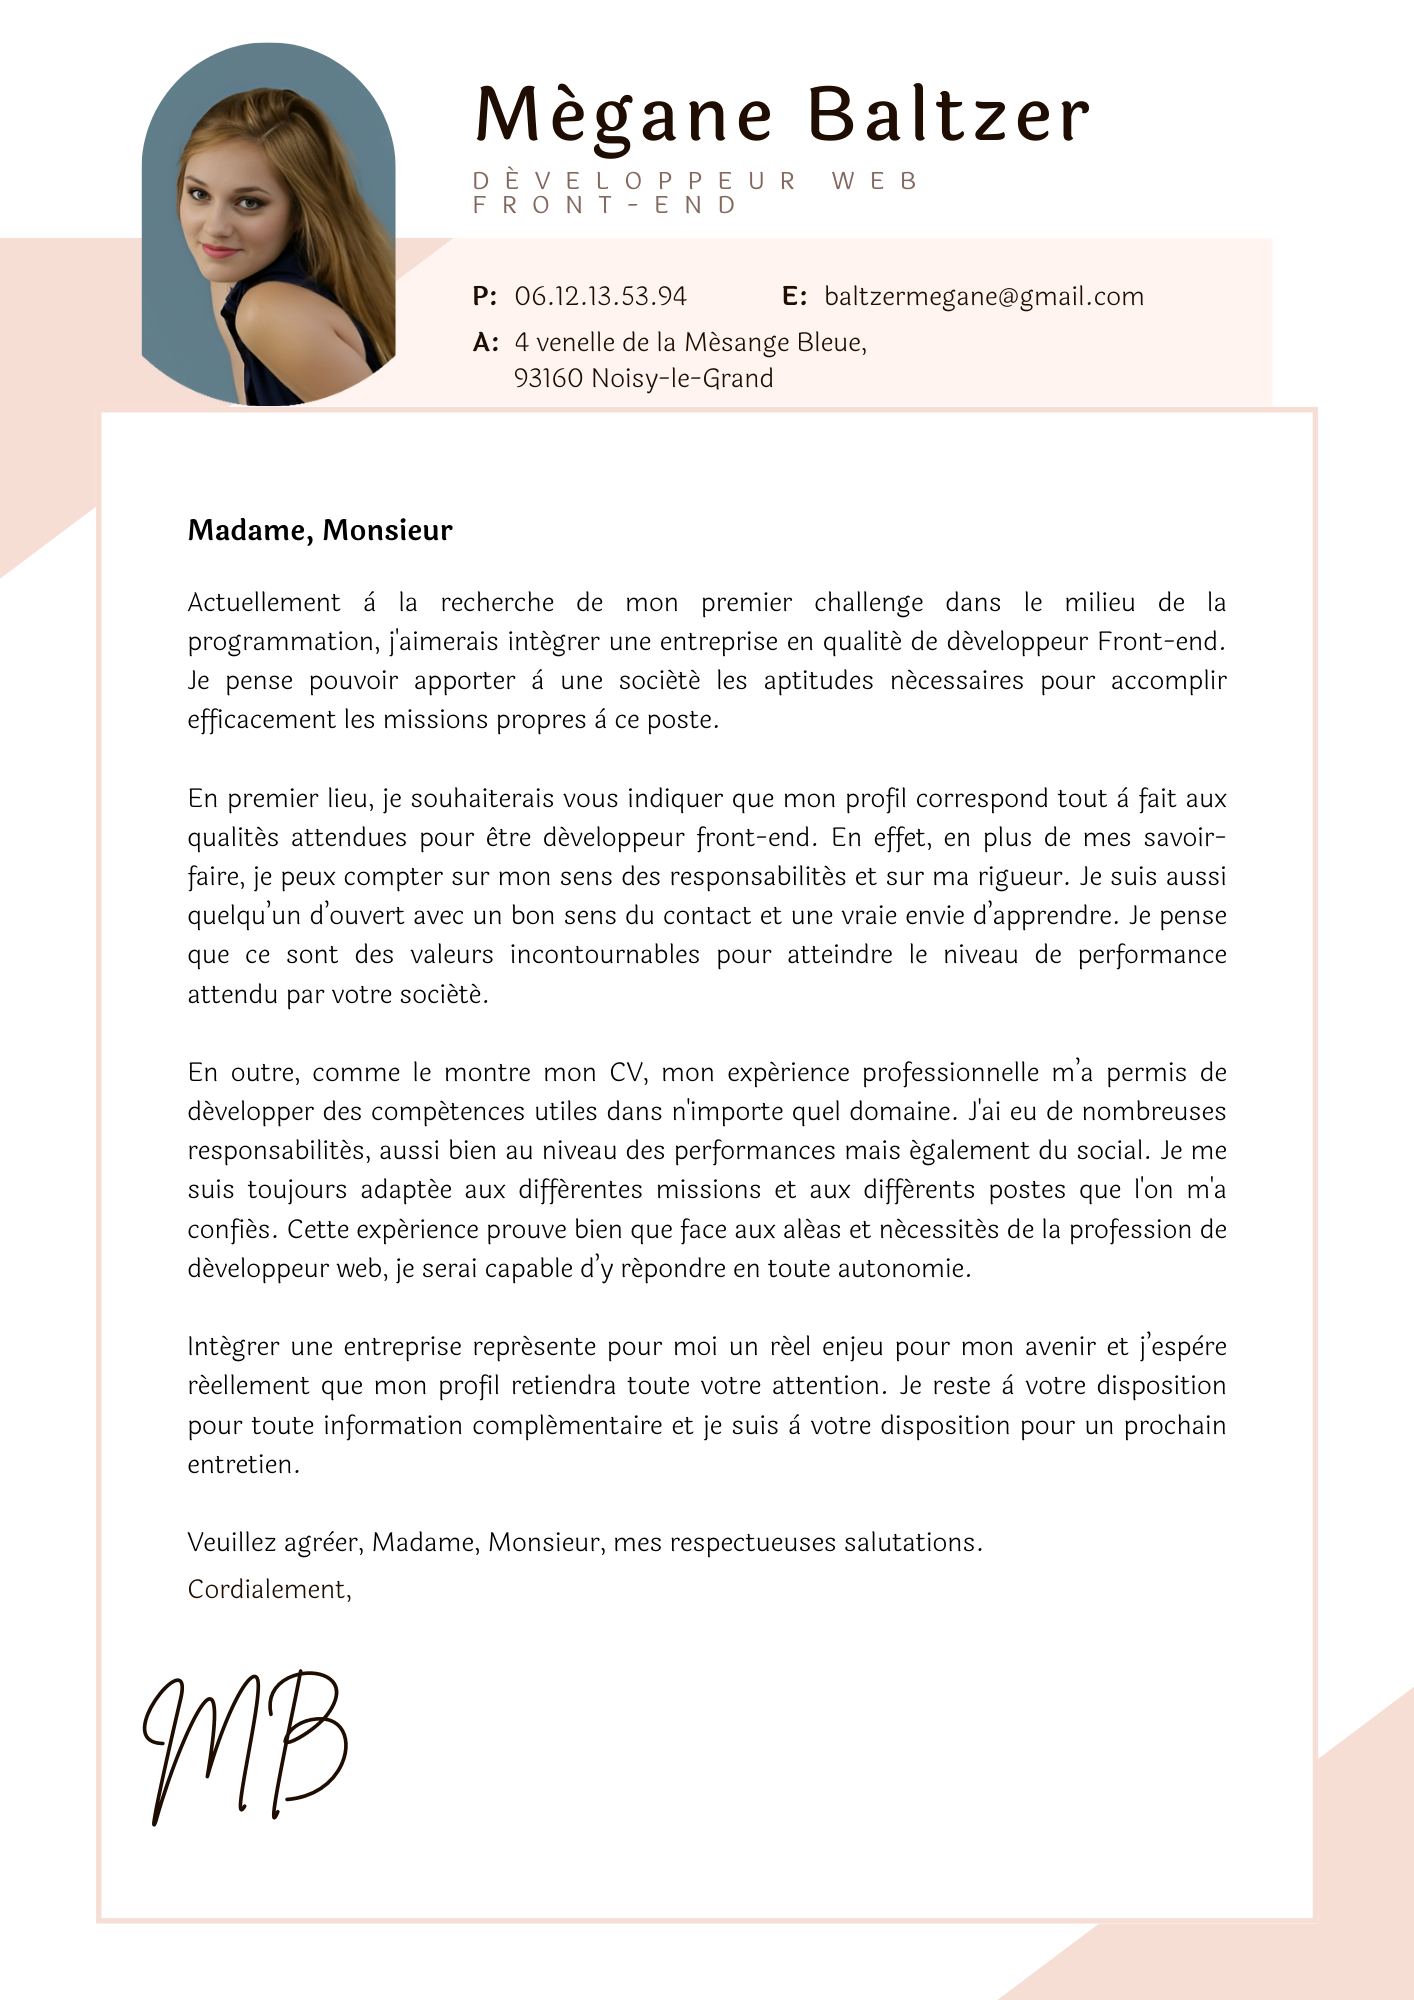
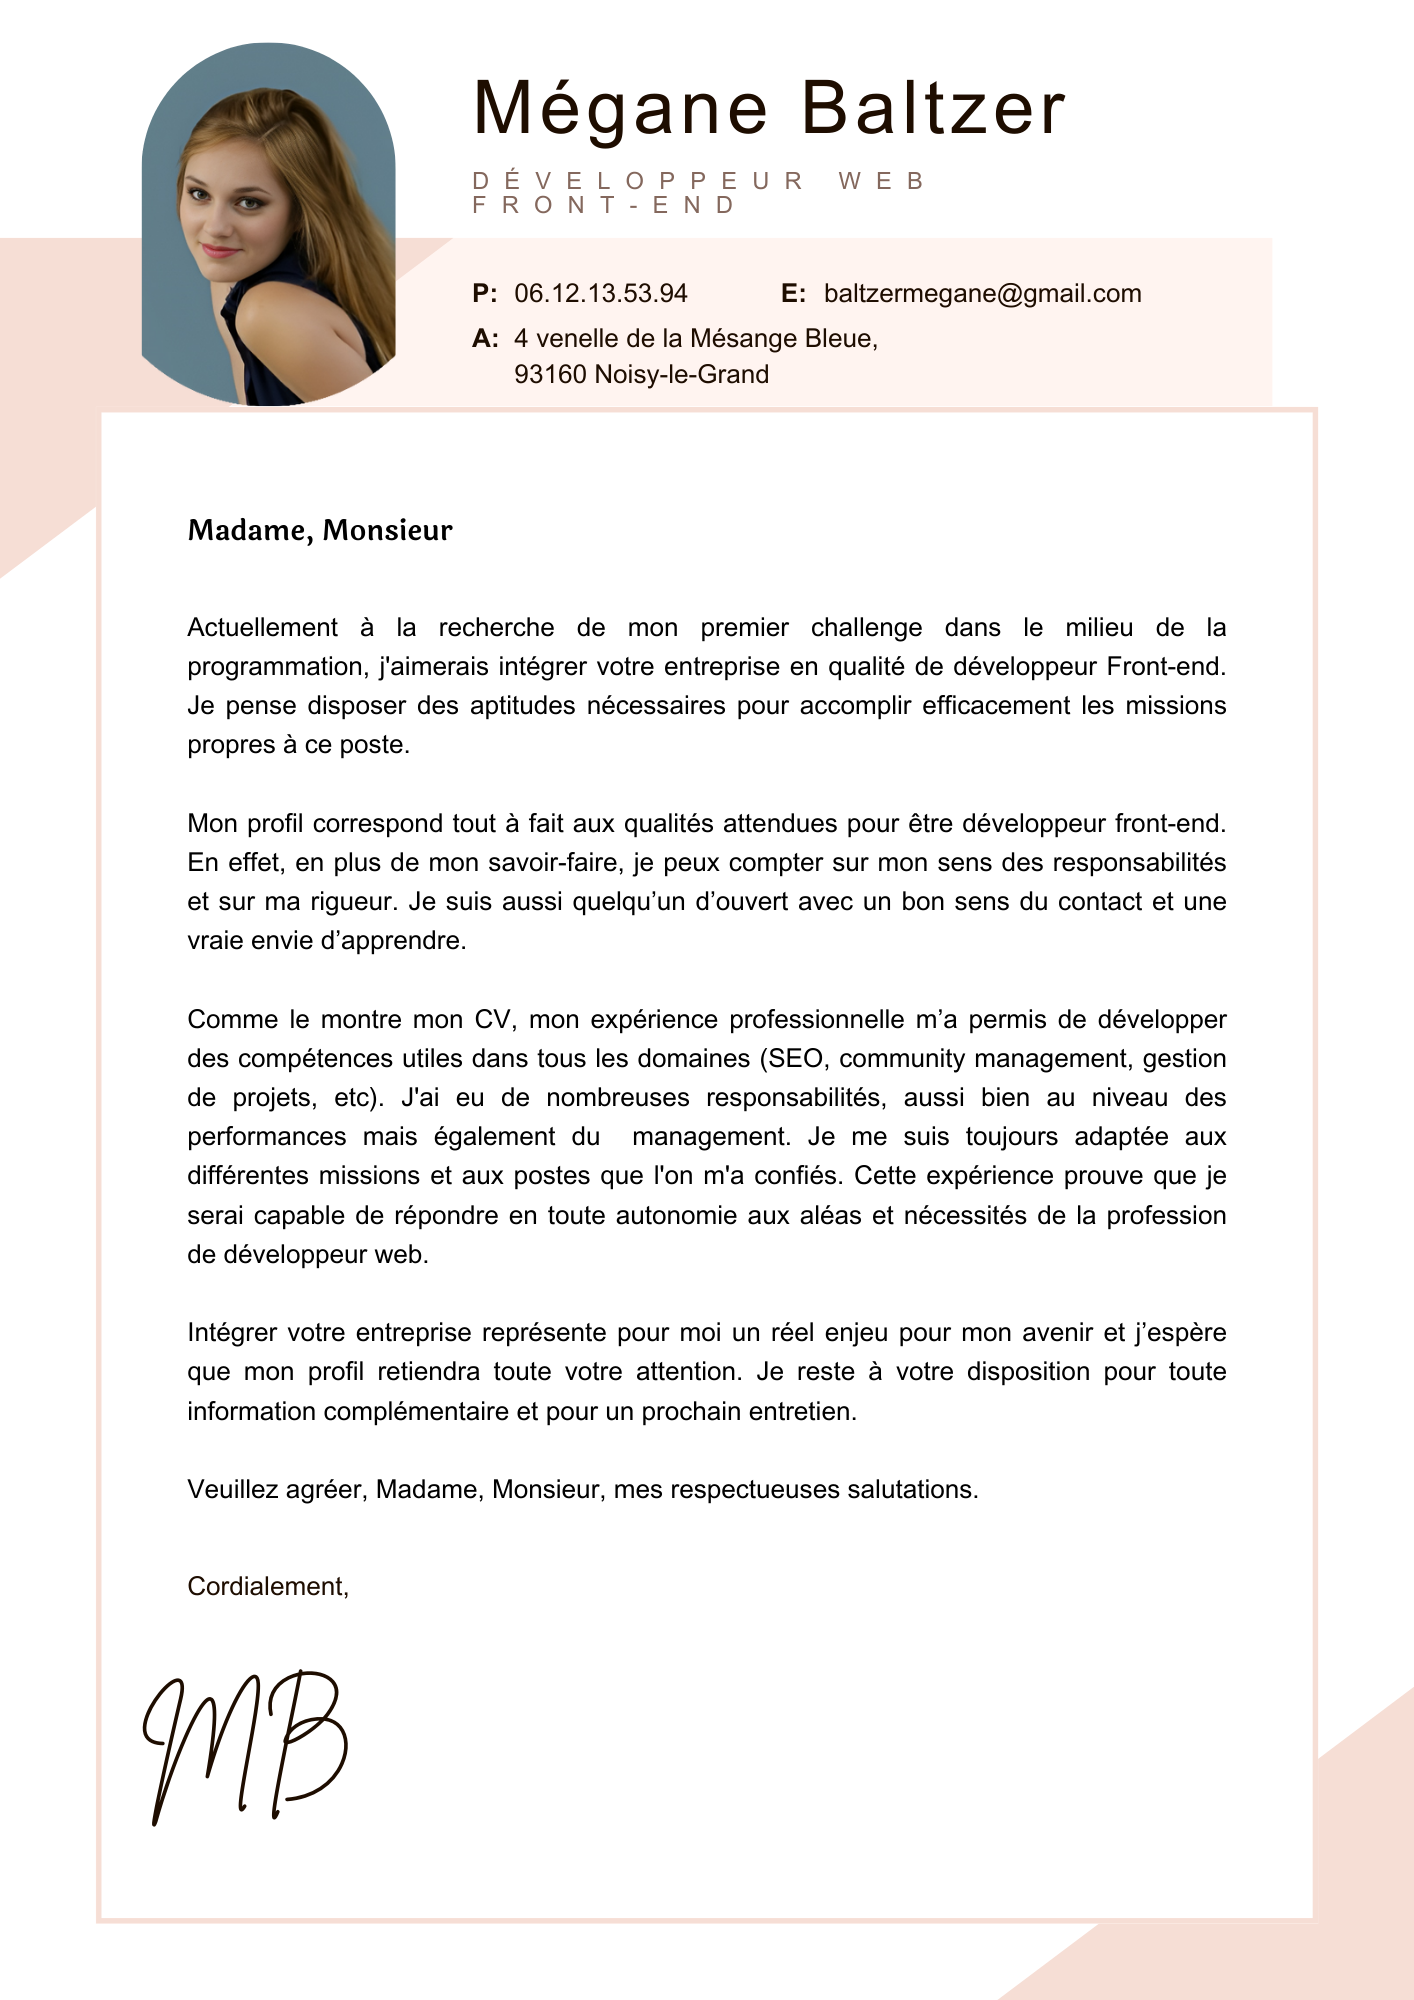
project completed

Changed region(s): [[0.1245, 0.279, 0.8713, 0.806], [0.3423, 0.031, 0.7779, 0.093], [0.3423, 0.124, 0.8091, 0.217]]

diff --git a/src/components/PrincipalPages/School/school.js b/src/components/PrincipalPages/School/school.js
@@ -63,13 +63,13 @@ const School = () => {
         <p>J'ai commencé ma formation chez O'Clock en novembre 2022. J'ai opté pour une formation intensive de 6 mois avec un socle fullstack et une spécialisation au choix au terme de celui-ci. Nous avons commencé par apprendre les fondamentaux de l'intégration avec le HTML et le CSS3. Nous avons ainsi réussi à donner vie à nos premières pages web. Nous avons ensuite poursuivi en apprenant les rudiments du langage PHP et Javascript.</p>
         <h3>Le socle fullstack</h3>
         <h4>Un peu de back-end avec PHP</h4>
-        <p>Nous avons commencé par nous attaquer à PHP pour nous permettre de réaliser de bout en bout un site dynamique et fonctionnel. Nous avons planché sérieusement sur la Programmation Orientée Objet (POO), le développement mobile et la gestion de la base de données avec mySQL, en utilisant principalement Adminer. La suite du programme a porté sur la structure d'une application, la modélisation et l'organisation des données ainsi que l'optimisation du réferencement naturel. Pour résumer, nous sommes devenus des experts MVC et SEO. Pour finir, nous nous sommes penchés sérieusement sur l'infrastructure technique d'administation bien sécurisée et la gestion des interfaces clients.</p>
+        <p>Nous avons commencé par nous attaquer à PHP pour nous permettre de réaliser de bout en bout un site dynamique et fonctionnel. Nous avons planché sérieusement sur la Programmation Orientée Objet (POO), le développement mobile et la gestion de la base de données avec mySQL, en utilisant principalement Adminer. La suite du programme a porté sur la structure d'une application, la modélisation et l'organisation des données ainsi que l'optimisation du réferencement naturel. Pour finir, nous nous sommes penchés sérieusement sur l'infrastructure technique d'administation bien sécurisée et la gestion des interfaces clients.</p>
         <h4>Un peu de front-end avec Javascript</h4>
-        <p>Nous avons façonné l'expérience utilisateur en créant de l'interactivité sur nos pages web. Nous avons ainsi appris à utiliser le langage Javascript sans ajouter le moindre Framework, mais ça, c'était en attendant la spécialisation...</p>
+        <p>Nous avons façonné l'expérience utilisateur en créant de l'interactivité sur nos pages web. Nous avons ainsi appris à utiliser le langage Javascript sans ajouter le moindre Framework.</p>
         <h3>La spécialisation front-end</h3>
-        <p>Arrivée au dernier mois de la formation, j'ai décidé de suivre la spécialité Javascript avec la bibliothèque <em>React</em>. J'ai fait ce choix pour deux raisons: la première est que j'ai une affinité plus prononcée pour l'aspect visuel d'un site et la seconde est qu'une fois le socle de la formation achevé, je me suis rendue compte que nous avions eu l'occasion de pousser nos connaissances de façon plus importante sur la partie back d'un site. Choisir le front pour ma spécialité finale était une façon d'obtenir un profil plus complet, si ce n'est fullstack. Une fois les bases acquises sur <em>React</em>, nous nous sommes penchés sur <em>Axios</em> afin de nous permettre la connexion avec les API, puis <em>Redux</em> afin d'optimiser nos applications si besoin. </p>
+        <p>Arrivée au dernier mois de la formation, j'ai décidé de suivre la spécialité Javascript avec la bibliothèque <em>Reactjs</em>. J'ai fait ce choix pour deux raisons: la première est que j'ai une affinité plus prononcée pour l'aspect visuel d'un site et la seconde est qu'une fois le socle de la formation achevé, je me suis rendue compte que nous avions eu l'occasion de pousser nos connaissances de façon plus importante sur la partie back d'un site. Choisir le front pour ma spécialité finale était une façon d'obtenir un profil plus complet. Une fois les bases acquises sur <em>React</em>, nous nous sommes penchés sur <em>Axios</em> afin de nous permettre la connexion avec les API, puis <em>Redux</em> afin d'optimiser nos applications si besoin. </p>
         <h3>Mon diplôme "Developpeur web et web mobile"</h3>
-        <p>A la suite de formation, je me suis inscrite à l'examen du titre professionnel niveau 5 "Developpeur web et web mobile". C'est avec succès que j'ai passé les tests et ainsi obtenu mon diplôme le 04 août 2023.</p>
+        <p>A la suite de la formation, je me suis inscrite à l'examen du titre professionnel niveau 5 "Developpeur web et web mobile". C'est avec succès que j'ai passé les tests et ainsi obtenu mon diplôme le 04 août 2023.</p>
         <a href="https://www.yafaim.fr/" target="u_blank" aria-label="bouton de redirection vers le site yafaim.fr">Mon site d'apothéose</a>
         <br />
         <dfn>Apothéose* : examen de fin de formation</dfn>

diff --git a/src/components/PrincipalPages/JobsResearch/jobsResearch.js b/src/components/PrincipalPages/JobsResearch/jobsResearch.js
@@ -18,16 +18,16 @@ const JobsResearch = () => (
     <section>
       <h1 style={{ marginBottom: '1em' }}>Ma lettre de motivation</h1>
       <div className="jobsResearchText">
-        <p>Actuellement à la recherche de mon premier challenge dans le milieu de la programmation, j'aimerais intégrer une entreprise en qualité de développeur Front-end. Je pense pouvoir apporter à une société les aptitudes nécessaires pour accomplir efficacement les missions propres à ce poste.</p>
-        <p>En premier lieu, je souhaiterais vous indiquer que mon profil correspond tout à fait aux qualités attendues pour être développeur front-end. En effet, en plus de mon savoir-faire, je peux compter sur mon sens des responsabilités et sur ma rigueur. Je suis aussi quelqu’un d’ouvert avec un bon sens du contact et une vraie envie d’apprendre. Je pense que ce sont des valeurs incontournables pour atteindre le niveau de performance attendu par votre société.</p>
-        <p>En outre, comme le montre mon CV, mon expérience professionnelle m’a permis de développer des compétences utiles dans n'importe quel domaine. J'ai eu de nombreuses responsabilités, aussi bien au niveau des performances mais également du social. Je me suis toujours adaptée aux différentes missions et aux différents postes que l'on m'a confiés. Cette expérience prouve bien que face aux aléas et nécessités de la profession de développeur web, je serai capable d’y répondre en toute autonomie.</p>
-        <p>Intégrer une entreprise représente pour moi un réel enjeu pour mon avenir et j’espère que mon profil retiendra toute votre attention. Je reste à votre disposition pour toute information complémentaire et je suis à votre disposition pour un prochain entretien.</p>
+        <p>Actuellement à la recherche de mon premier challenge dans le milieu de la programmation, j'aimerais intégrer une entreprise en qualité de développeur Front-end. Je pense disposer des aptitudes nécessaires pour accomplir efficacement les missions propres à ce poste.</p>
+        <p>Mon profil correspond tout à fait aux qualités attendues pour être développeur front-end. En effet, en plus de mon savoir-faire, je peux compter sur mon sens des responsabilités et sur ma rigueur. Je suis aussi quelqu’un d’ouvert avec un bon sens du contact et une vraie envie d’apprendre.</p>
+        <p>Comme le montre mon CV, mon expérience professionnelle m’a permis de développer des compétences utiles dans tous les domaines (SEO, community management, gestion de projets, etc). J'ai eu de nombreuses responsabilités, aussi bien au niveau des performances mais également du  management. Je me suis toujours adaptée aux différentes missions et aux postes que l'on m'a confiés. Cette expérience prouve que je serai capable de répondre en toute autonomie aux aléas et nécessités de la profession de développeur web.</p>
+        <p>Intégrer une entreprise représente pour moi un réel enjeu pour mon avenir et j’espère que mon profil retiendra toute votre attention. Je reste à votre disposition pour toute information complémentaire et pour un prochain entretien.</p>
         <p>Veuillez agréer, Madame, Monsieur, mes respectueuses salutations.</p>
       </div>
       <p className="jobsResearchSignature">Mégane Baltzer</p>
       <div style={{ borderTop: '0.5px solid #94A1C2', margin: '3em' }} />
       <h2 style={{ marginBottom: '1em' }}>Quelles sont mes attentes ?</h2>
-      <p className="jobsResearchExpectations"><strong>Actuellement en recherche d'emploi</strong>, je suis intéressée par toutes propositions qui conviennent à mon profil (CDI, CDD ou stage). Dans l'idéal, j'aimerais commencer par <strong>un stage de 6 mois ou 1 an</strong> afin de développer sereinement mes compétences dans le monde professionnel. En effet, étant donné que je ne subis pas de quelconque pression pour retrouver un emploi de façon urgente, je pense qu'un stage serait plus confortable pour mon évolution.</p>
+      <p className="jobsResearchExpectations"><strong>Actuellement en recherche d'emploi</strong>, je suis intéressée par toutes propositions qui conviennent à mon profil (CDI, CDD ou stage courte durée avec possibilité d'embauche à son terme).</p>
     </section>
     <Button className="anim" style={{ marginTop: '2em' }} variant="blue" onClick={downloadPdf}>Télécharger ma lettre de motivation</Button>
   </div>

diff --git a/src/datas/skills.js b/src/datas/skills.js
@@ -26,8 +26,8 @@ const skills = [
     name: 'HTML5',
     champs: 'HTML5, front',
     level: '5',
-    experience: '10 mois',
-    category: 'HTML',
+    experience: '6 mois',
+    category: 'Integration',
     picture: html,
     color: 'blue',
     text: 'white',
@@ -37,8 +37,8 @@ const skills = [
     name: 'CSS3',
     champs: 'CSS3, front, scss',
     level: '4',
-    experience: '10 mois',
-    category: 'Design',
+    experience: '6 mois',
+    category: 'Integration',
     picture: css,
     color: 'blue',
     text: 'white',
@@ -48,7 +48,7 @@ const skills = [
     name: 'Javascript',
     champs: 'javascript, front',
     level: '4',
-    experience: '2 mois',
+    experience: '1 mois',
     category: 'Front-end',
     picture: javascript,
     color: 'blue',
@@ -59,7 +59,7 @@ const skills = [
     name: 'ReactJS',
     champs: 'ReactJS, front, bibliotheque',
     level: '5',
-    experience: '5 mois',
+    experience: '2 mois',
     category: 'Front-end',
     picture: react,
     color: 'blue',
@@ -70,8 +70,8 @@ const skills = [
     name: 'Bootstrap',
     champs: 'Bootstrap, front',
     level: '5',
-    experience: '7 mois',
-    category: 'Design',
+    experience: '6 mois',
+    category: 'Integration',
     picture: bootstrap,
     color: 'blue',
     text: 'white',
@@ -81,7 +81,7 @@ const skills = [
     name: 'Axios',
     champs: 'Axios, front, bibliotheque',
     level: '4',
-    experience: '5 mois',
+    experience: '2 mois',
     category: 'Front-end',
     picture: axios,
     color: 'blue',
@@ -92,7 +92,7 @@ const skills = [
     name: 'Redux',
     champs: 'Redux, front, bibliotheque',
     level: '5',
-    experience: '5 mois',
+    experience: '1 mois',
     category: 'Front-end',
     picture: redux,
     color: 'blue',
@@ -103,7 +103,7 @@ const skills = [
     name: 'React-jwt',
     champs: 'React-jwt, front, bibliotheque',
     level: '3',
-    experience: '2 mois',
+    experience: '1 mois',
     category: 'Front-end',
     picture: jwt,
     color: 'blue',
@@ -114,7 +114,7 @@ const skills = [
     name: 'React-Router-Dom',
     champs: 'React-Router-Dom, front',
     level: '5',
-    experience: '5 mois',
+    experience: '2 mois',
     category: 'Front-end',
     picture: reactRouterDom,
     color: 'blue',
@@ -125,7 +125,7 @@ const skills = [
     name: 'emailJS',
     champs: 'emailJS, front, messagerie',
     level: '5',
-    experience: '5 mois',
+    experience: '1 mois',
     category: 'Front-end',
     picture: emailjs,
     color: 'blue',
@@ -136,7 +136,7 @@ const skills = [
     name: 'Management',
     champs: 'management',
     level: '5',
-    experience: '5 ans',
+    experience: '6 ans',
     category: 'Management',
     picture: management,
     color: 'brown',
@@ -147,7 +147,7 @@ const skills = [
     name: 'Travail en équipe',
     champs: 'Travail en équipe',
     level: '5',
-    experience: '8 ans',
+    experience: '6 ans',
     category: 'Soft skills',
     picture: team,
     color: 'brown',
@@ -202,7 +202,7 @@ const skills = [
     name: 'Rédaction',
     champs: 'Rédaction, langue, français',
     level: '5',
-    experience: '8 ans',
+    experience: '6 ans',
     category: 'Langues',
     picture: redaction,
     color: 'brown',
@@ -213,7 +213,7 @@ const skills = [
     name: 'SEO',
     champs: 'SEO',
     level: '4',
-    experience: '8 ans',
+    experience: '6 ans',
     category: 'SEO',
     picture: seo,
     color: 'brown',
@@ -224,7 +224,7 @@ const skills = [
     name: 'Anglais',
     champs: 'Anglais, langue',
     level: '3',
-    experience: 'C1',
+    experience: 'B2',
     category: 'Langues',
     picture: anglais,
     color: 'brown',
@@ -235,7 +235,7 @@ const skills = [
     name: 'PHP',
     champs: 'PHP, back',
     level: '3',
-    experience: '4 mois',
+    experience: '3 mois',
     category: 'Back-end',
     picture: php,
     color: 'blue',
@@ -246,7 +246,7 @@ const skills = [
     name: 'MySql',
     champs: 'MySql, back',
     level: '3',
-    experience: '4 mois',
+    experience: '3 mois',
     category: 'Back-end',
     picture: mysql,
     color: 'blue',

diff --git a/src/components/Header&Footer/Header/header.js b/src/components/Header&Footer/Header/header.js
@@ -54,11 +54,26 @@ function Header() {
                 <h1 style={{ fontSize: '1em', marginBottom: 0 }}>{data.label}</h1>
               </NavLink>
             ))}
-            <NavDropdown style={{ marginTop: '-1%' }} title="Autres" id="nav-dropdown">
-              <NavDropdown.Item as={Link} to="https://www.linkedin.com/in/megane-baltzer/" target="u_blank" eventKey="4.1">
+            <NavDropdown
+              style={{ marginTop: '-1%' }}
+              title="Autres"
+              id="nav-dropdown"
+            >
+              <NavDropdown.Item
+                as={Link}
+                to="https://www.linkedin.com/in/megane-baltzer/"
+                target="u_blank"
+                eventKey="4.1"
+                onClick={handleToggleClose}
+              >
                 Mon Linkedin
               </NavDropdown.Item>
-              <NavDropdown.Item as={Link} to="/contact" eventKey="4.3">
+              <NavDropdown.Item
+                as={Link}
+                to="/contact"
+                eventKey="4.3"
+                onClick={handleToggleClose}
+              >
                 Me contacter
               </NavDropdown.Item>
             </NavDropdown>

diff --git a/src/components/PrincipalPages/Skills/categoryFilter.js b/src/components/PrincipalPages/Skills/categoryFilter.js
@@ -23,10 +23,9 @@ const CategoryFilter = ({ filteredByCategory, setfilteredByCategory }) => (
         <option value="Back-end">Back-end</option>
         <option value="Management">Management</option>
         <option value="Langues">Langues</option>
-        <option value="HTML">HTML</option>
-        <option value="Design">Design</option>
+        <option value="Integration">Integration</option>
         <option value="SEO">SEO</option>
-        <option value="Soft Skills">Soft Skills</option>
+        <option value="Soft skills">Soft skills</option>
       </Form.Select>
     </Form>
   </Container>

diff --git a/src/index.js b/src/index.js
@@ -1,13 +1,13 @@
 import { createRoot } from 'react-dom/client';
 import App from 'src/components/App';
-import { BrowserRouter } from 'react-router-dom';
+import { HashRouter } from 'react-router-dom';
 import ScrollToTop from 'src/components/ScrollToTop/scrollToTop';
 
 const rootReactElement = (
-  <BrowserRouter>
+  <HashRouter>
     <ScrollToTop />
     <App />
-  </BrowserRouter>
+  </HashRouter>
 );
 
 const root = createRoot(document.getElementById('root'));

diff --git a/src/assets/index.html b/src/assets/index.html
@@ -5,6 +5,7 @@
         <meta name="viewport" content="width=device-width, initial-scale=1.0" />
         <meta http-equiv="x-ua-compatible" content="ie=edge" />
 		<meta name="description" content="Découvrez le e-cv de Mégane Baltzer">
+		<!-- <link rel="icon" type="image/png" href="/src/assets/img/photoOnglet.ico"/> -->
         <title>e-CV de Mégane Baltzer</title>
     </head>
     <body>
